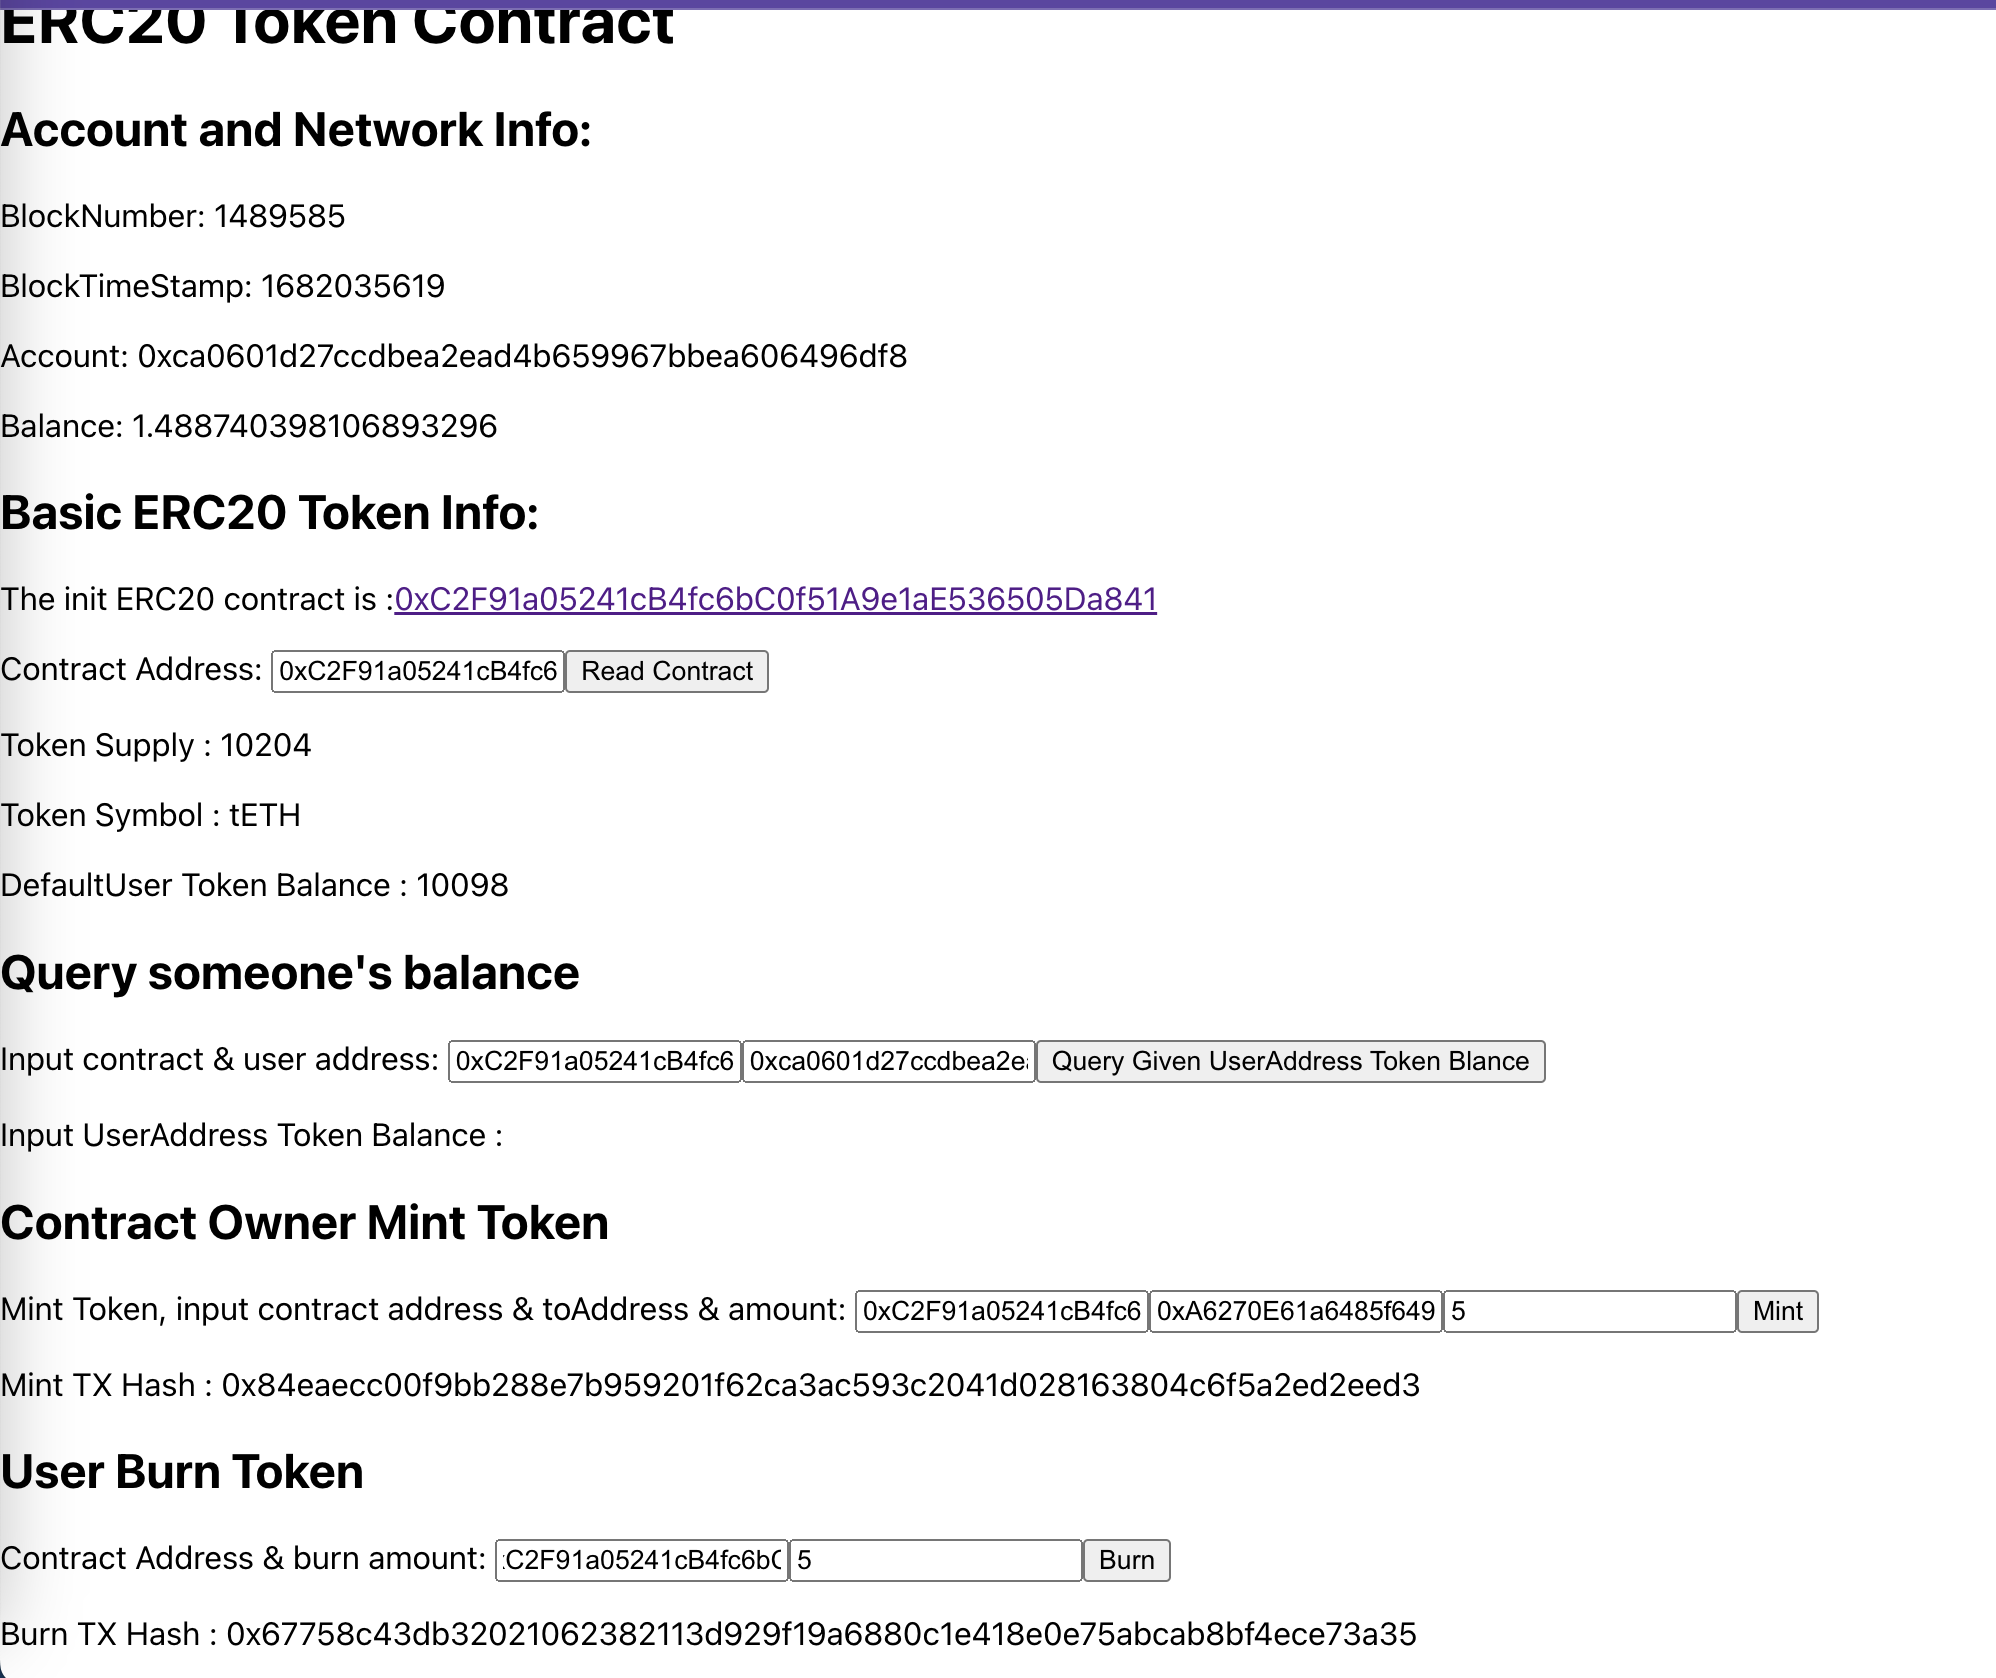
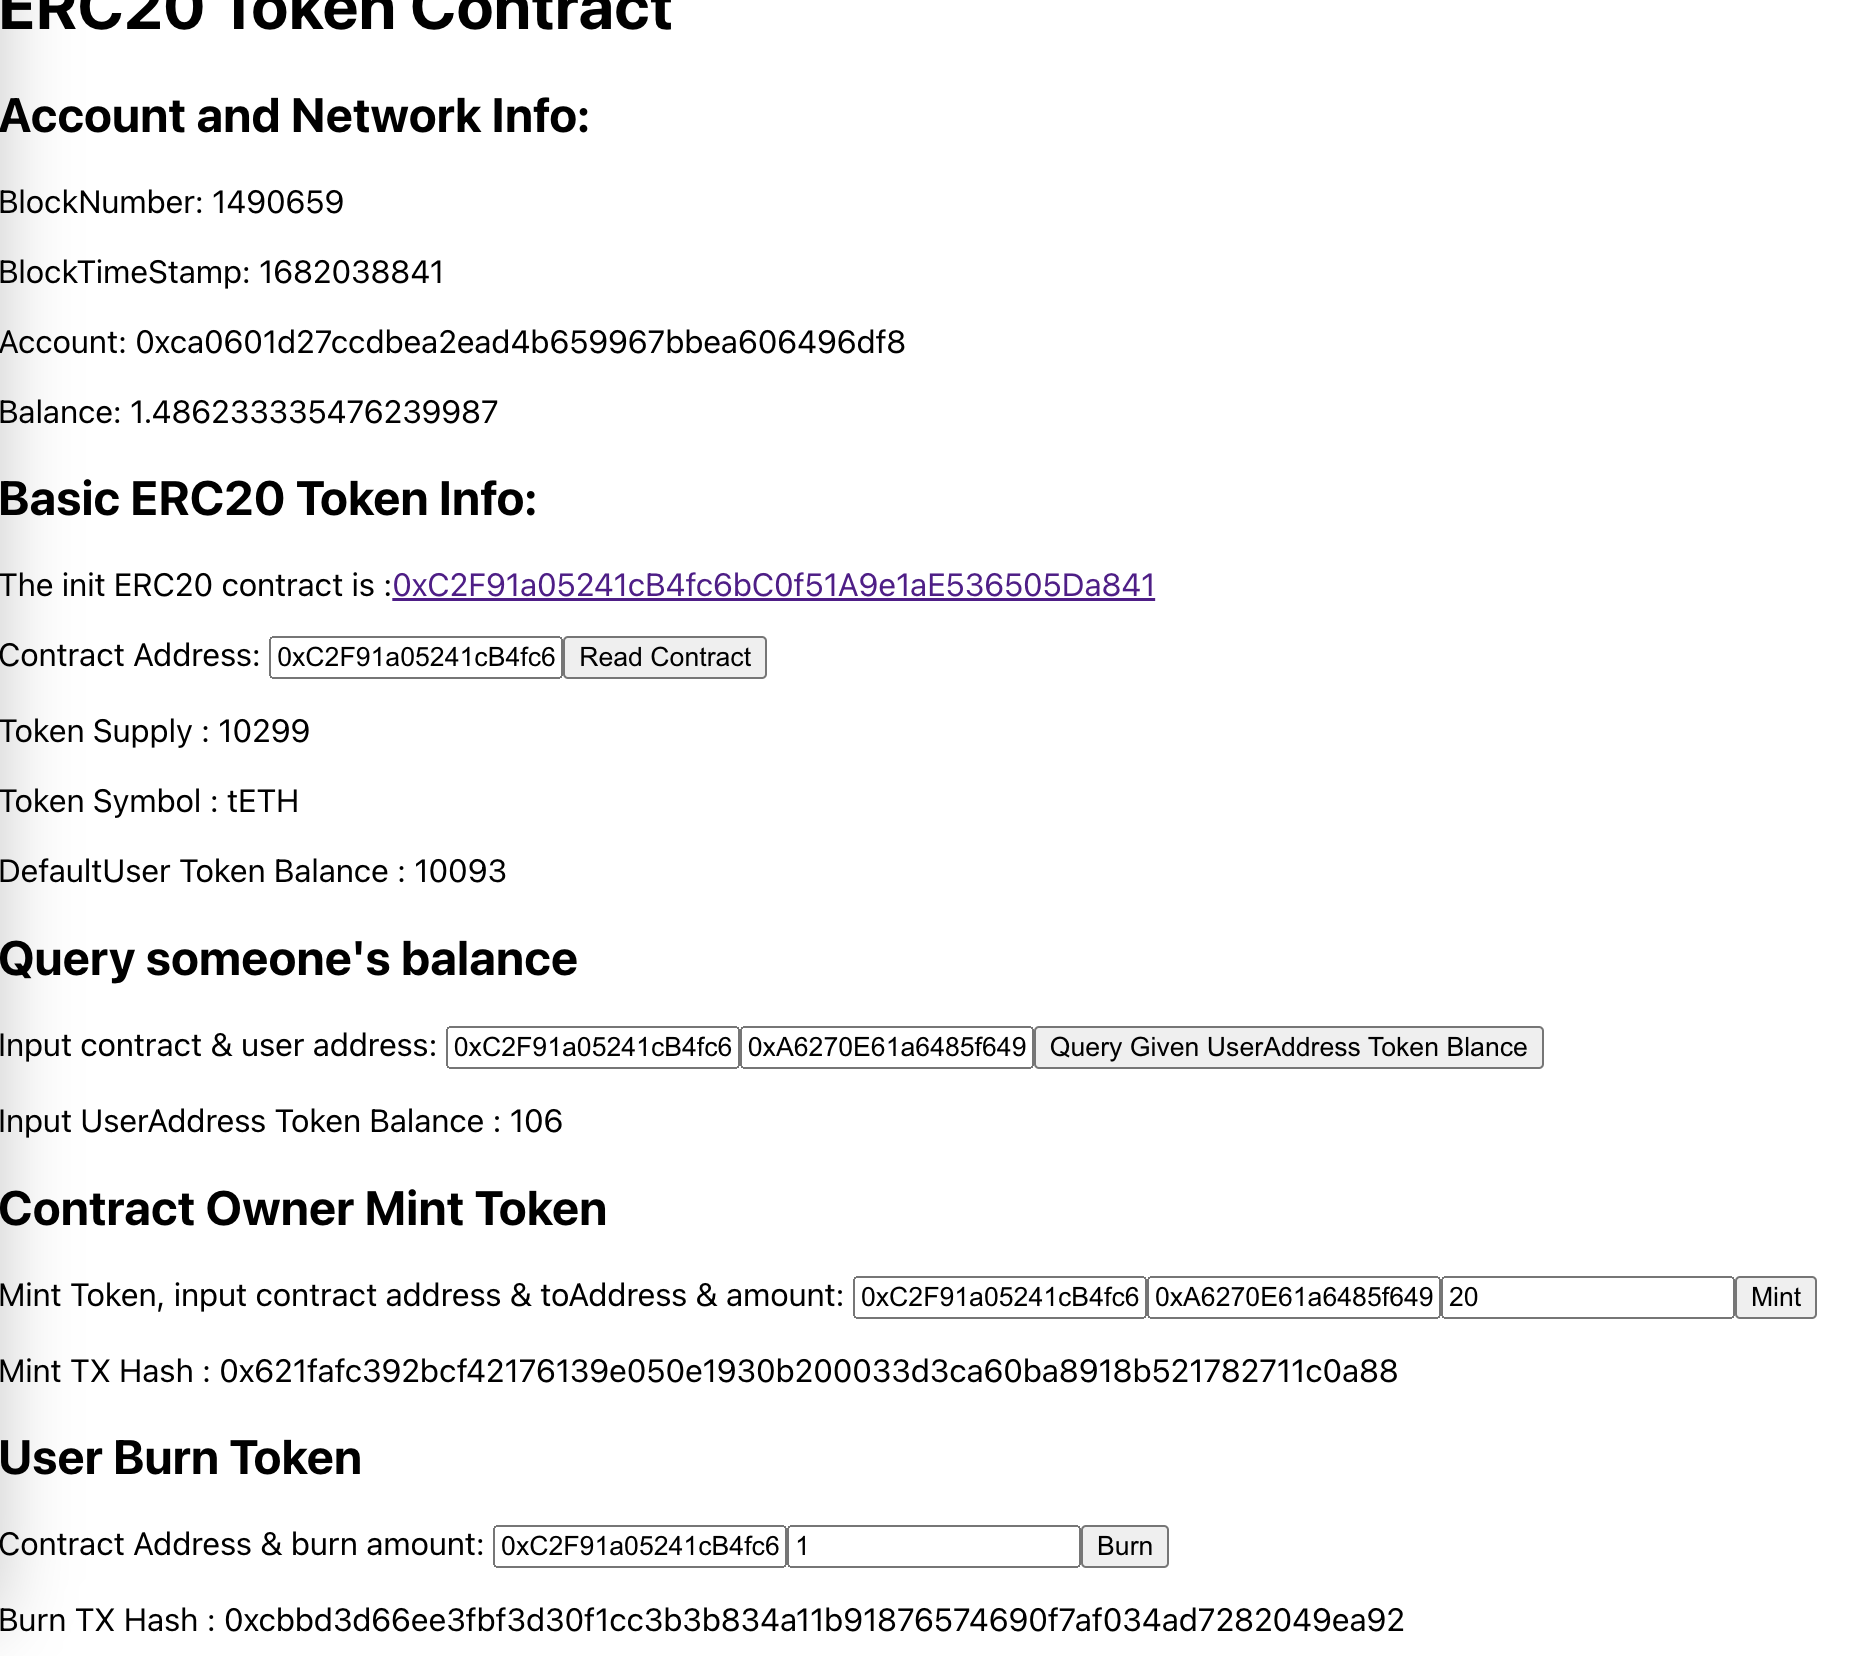
debug query user balance

diff --git a/class6/frontend/contract-info/src/App.js b/class6/frontend/contract-info/src/App.js
@@ -52,7 +52,7 @@ function App() {
   const [_userTokenBlance, setUserTokenBlance] = useState(userTokenBlance);
   const handleQueryUserBlance = async() => {
     await queryUserBlance(_contractAddress, _userAddress);
-    setUserTokenBlance(_userTokenBlance);
+    setUserTokenBlance(userTokenBlance);
   }
 
   const [_toUserAddress, setToUserAddress] = useState("");
